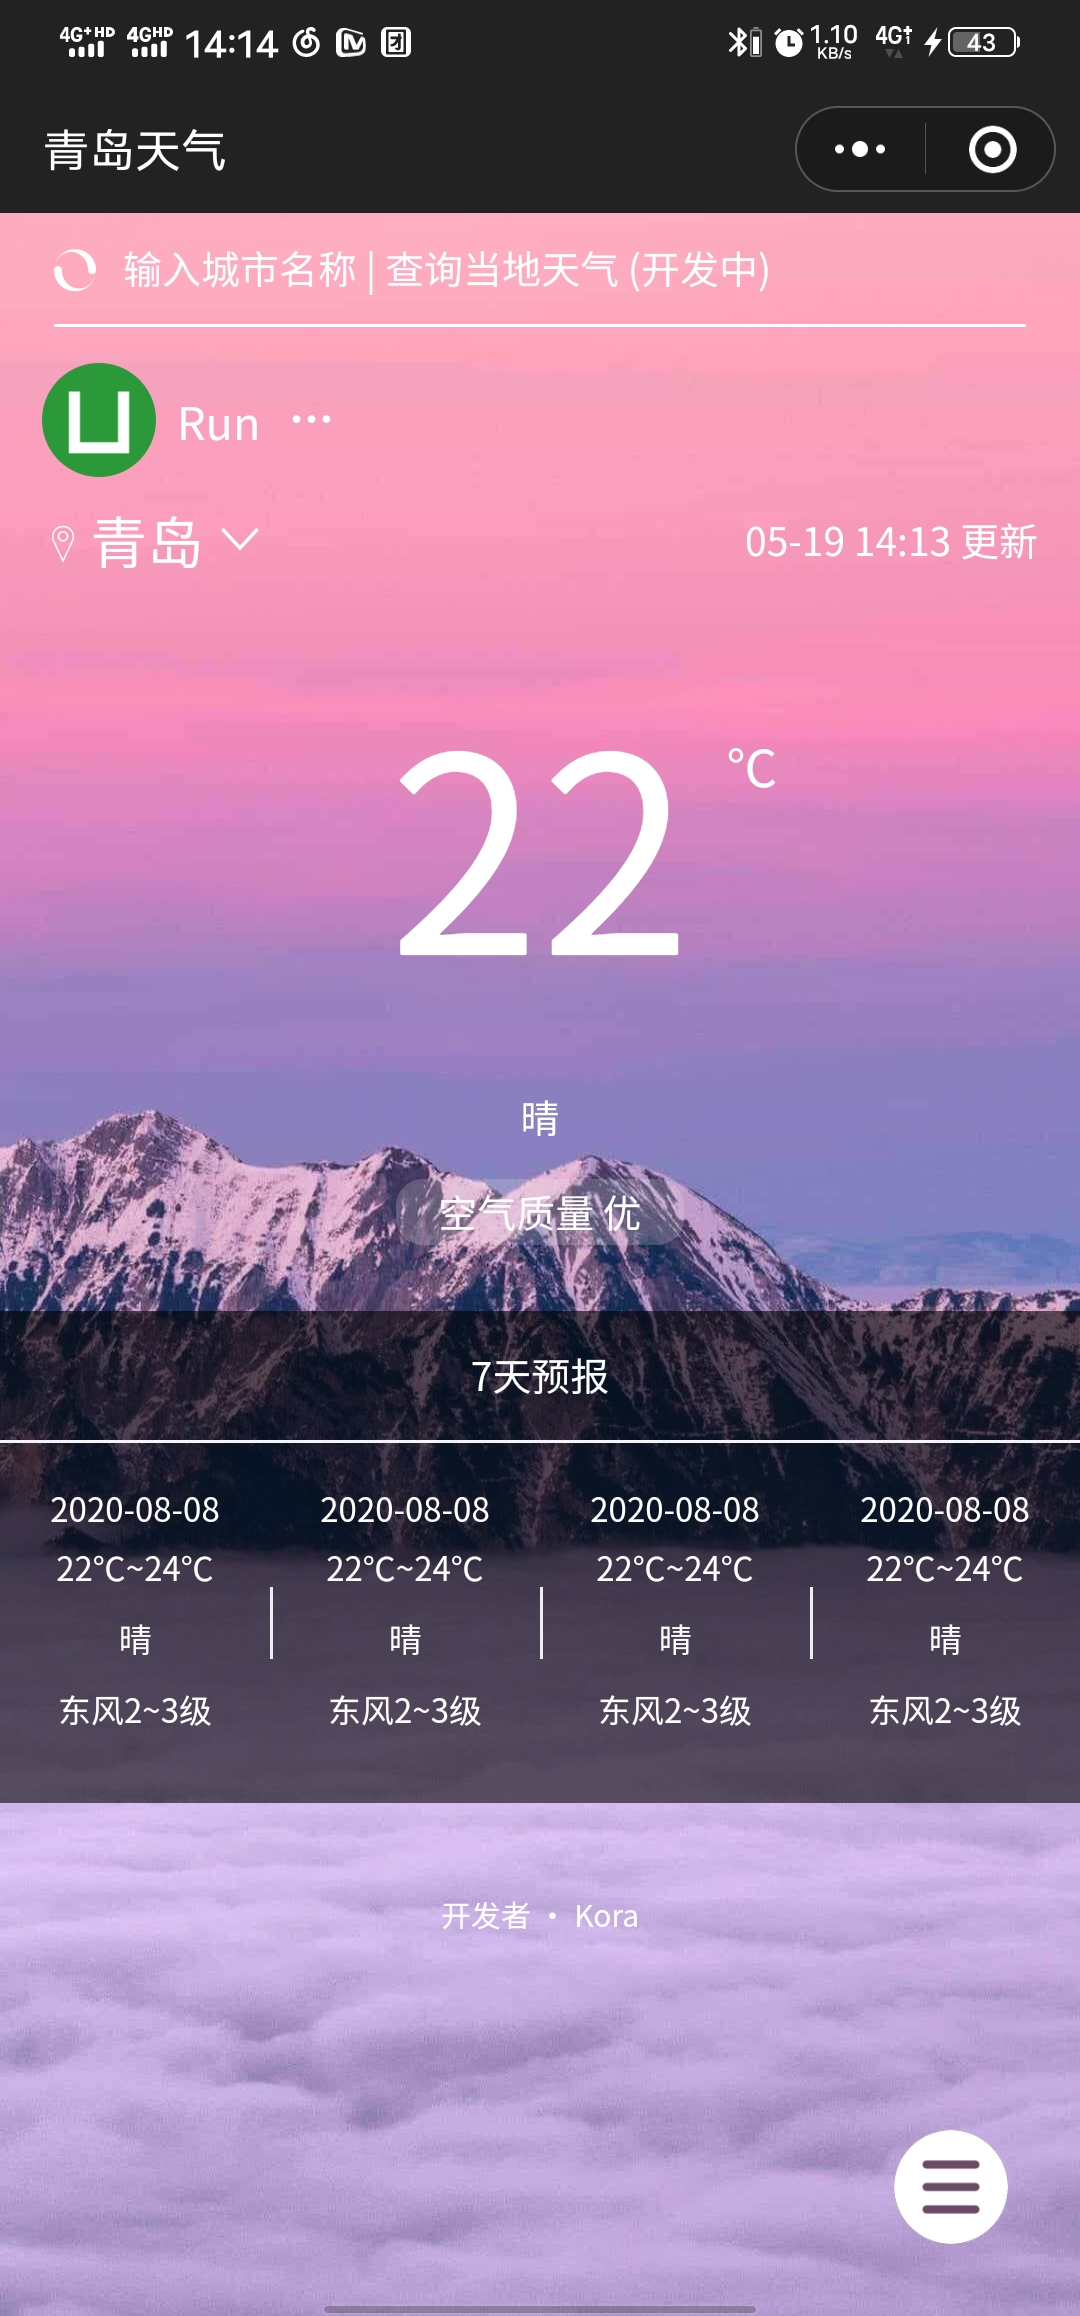
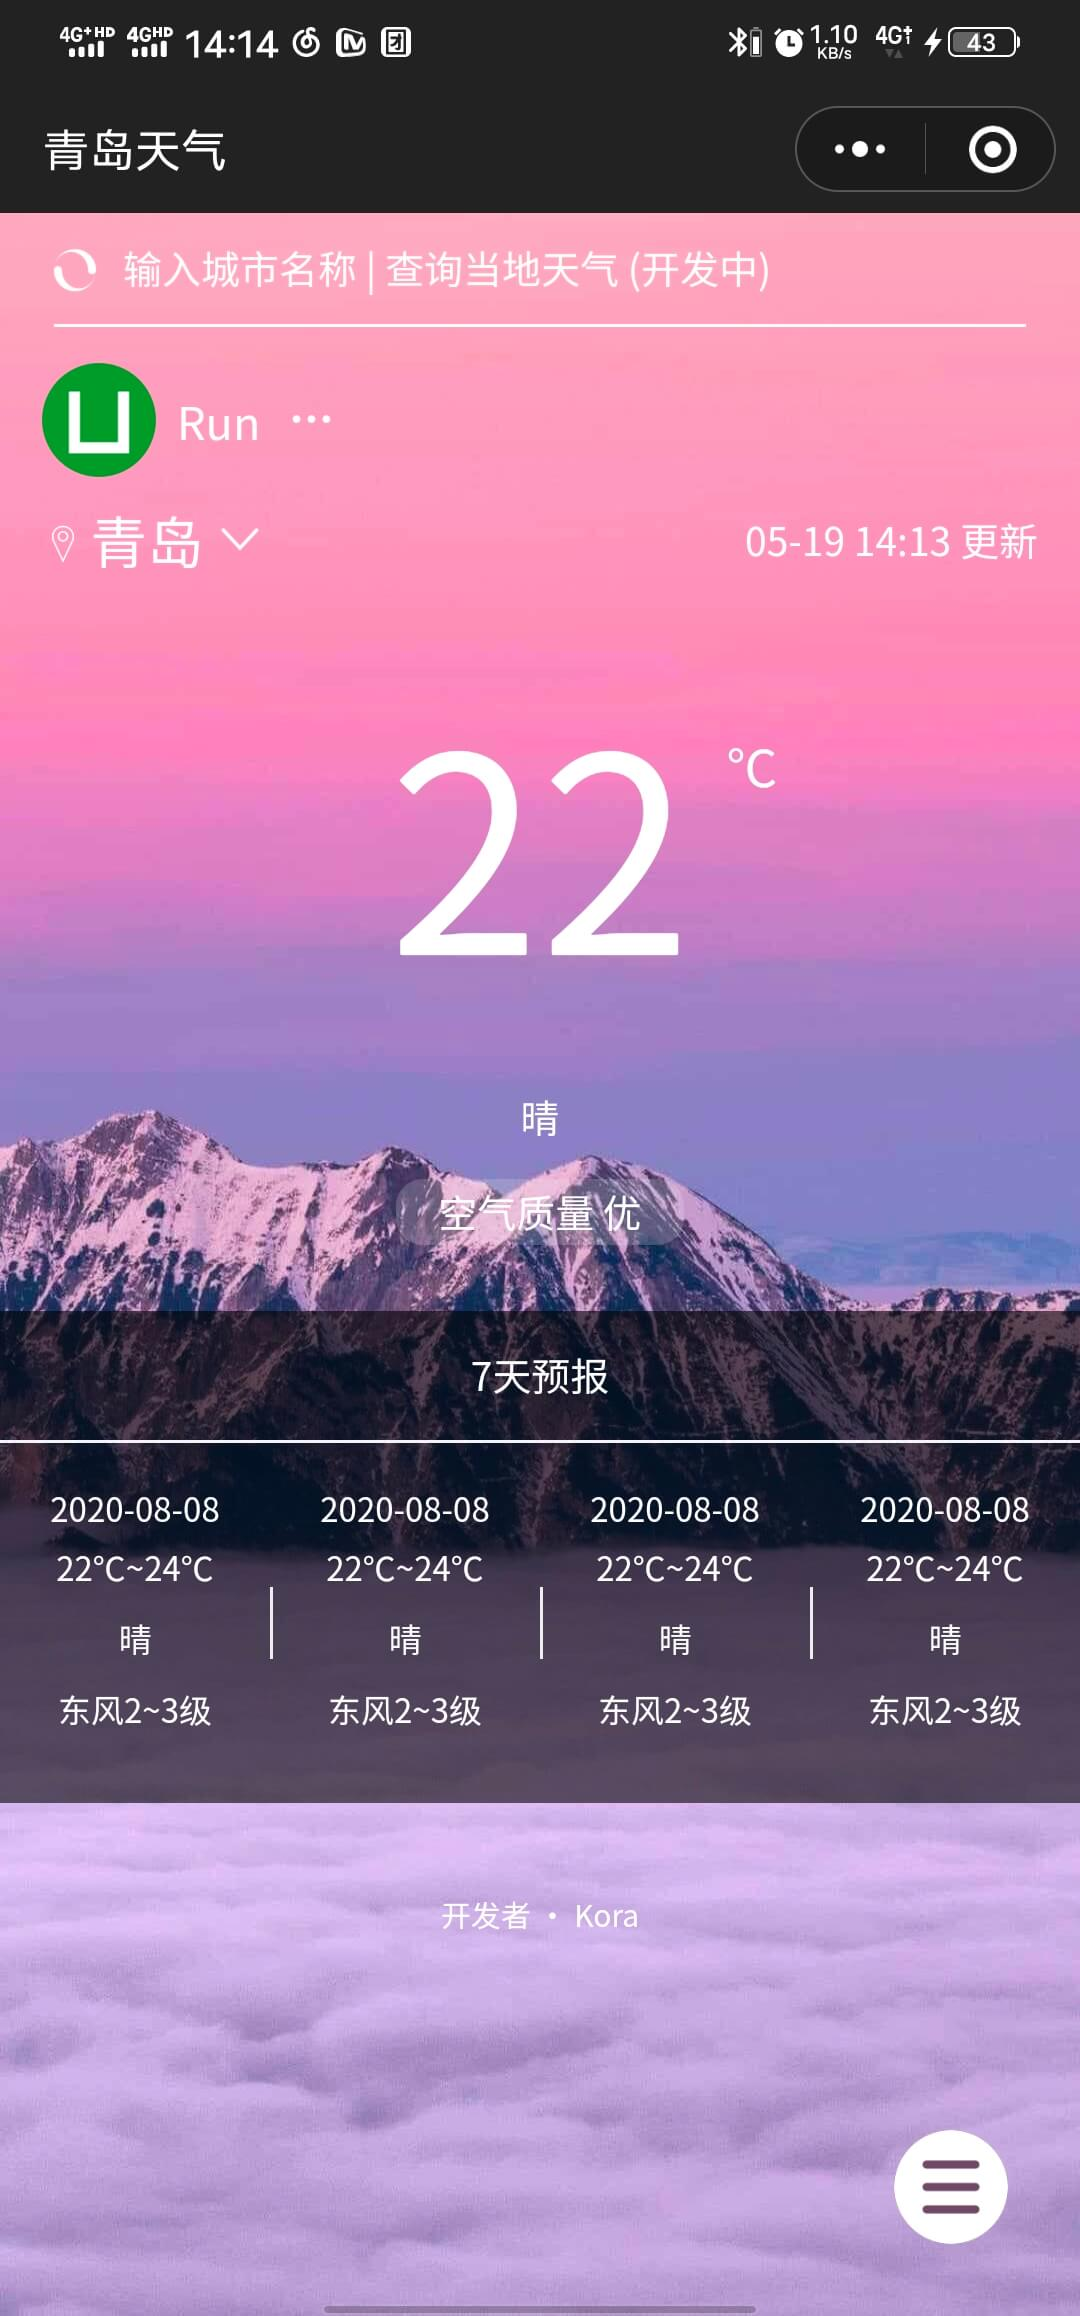
Blog - 资源优化

Changed region(s): [[0.0306, 0.1554, 0.1528, 0.2176]]

diff --git a/docs/src/.vuepress/theme/components/Common.vue b/docs/src/.vuepress/theme/components/Common.vue
@@ -1,7 +1,7 @@
 <template>
     <div class="theme-container" :class="pageClasses">
         <!-- kora - 增加全局背景图 -->
-        <section class="banner" :style="[{ background: '#eee url(' + require('../images/banner/0.jpg') + ') center center / cover no-repeat', height: fullScreen ? '100vh' : '352px', opacity: hide ? 0 : 1 }]"></section>
+        <section class="banner" :style="[{ background: '#eee url(' + require('../images/banner/4.jpg') + ') center center / cover no-repeat', height: fullScreen ? '100vh' : '352px', opacity: hide ? 0 : 1 }]"></section>
 
         <div v-if="!absoluteEncryption">
             <transition name="fade">
@@ -62,6 +62,10 @@ export default defineComponent({
     components: { Sidebar, Navbar, Password, PersonalInfo },
 
     props: {
+        from: {
+            type: String,
+            default: '',
+        },
         sidebar: {
             type: Boolean,
             default: true,

diff --git a/docs/src/.vuepress/theme/components/HomeBlog/index.vue b/docs/src/.vuepress/theme/components/HomeBlog/index.vue
@@ -97,7 +97,7 @@ export default defineComponent({
 
         const bgImageStyle = computed(() => {
             // const url = instance.$frontmatter.bgImage ? instance.$withBase(instance.$frontmatter.bgImage) : require('../../images/bg.svg');
-            const url = require(`../../images/banner/${Math.floor(Math.random() * 4)}.jpg`);
+            const url = require(`../../images/banner/${Math.floor(Math.random() * 5)}.jpg`);
 
             const initBgImageStyle = {
                 textAlign: 'center',
@@ -362,4 +362,5 @@ export default defineComponent({
     }
   }
 }
+.description{text-shadow: 2px 2px 2px #647EA0;}
 </style>

diff --git a/docs/src/.vuepress/theme/layouts/Valine.vue b/docs/src/.vuepress/theme/layouts/Valine.vue
@@ -1,6 +1,6 @@
 <template>
     <div>
-        <Common class="timeline-wrapper" :sidebar="false" :hide="false">
+        <Common class="timeline-wrapper" :from="'valine'" :sidebar="false" :hide="false">
             <div id="vcomments"></div>
         </Common>
     </div>
